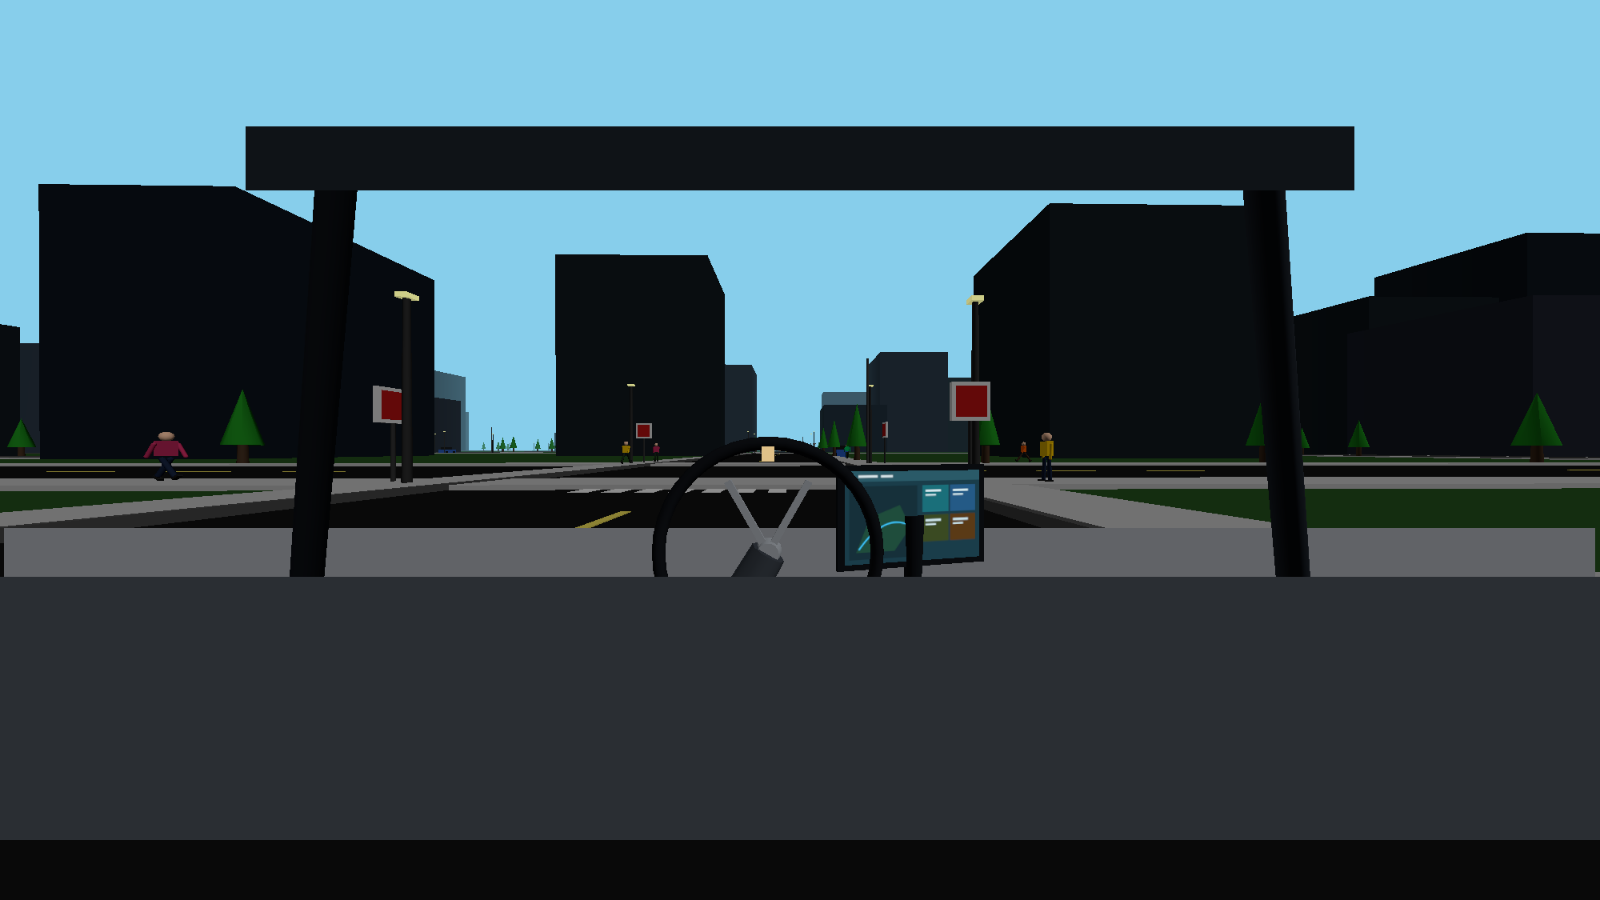
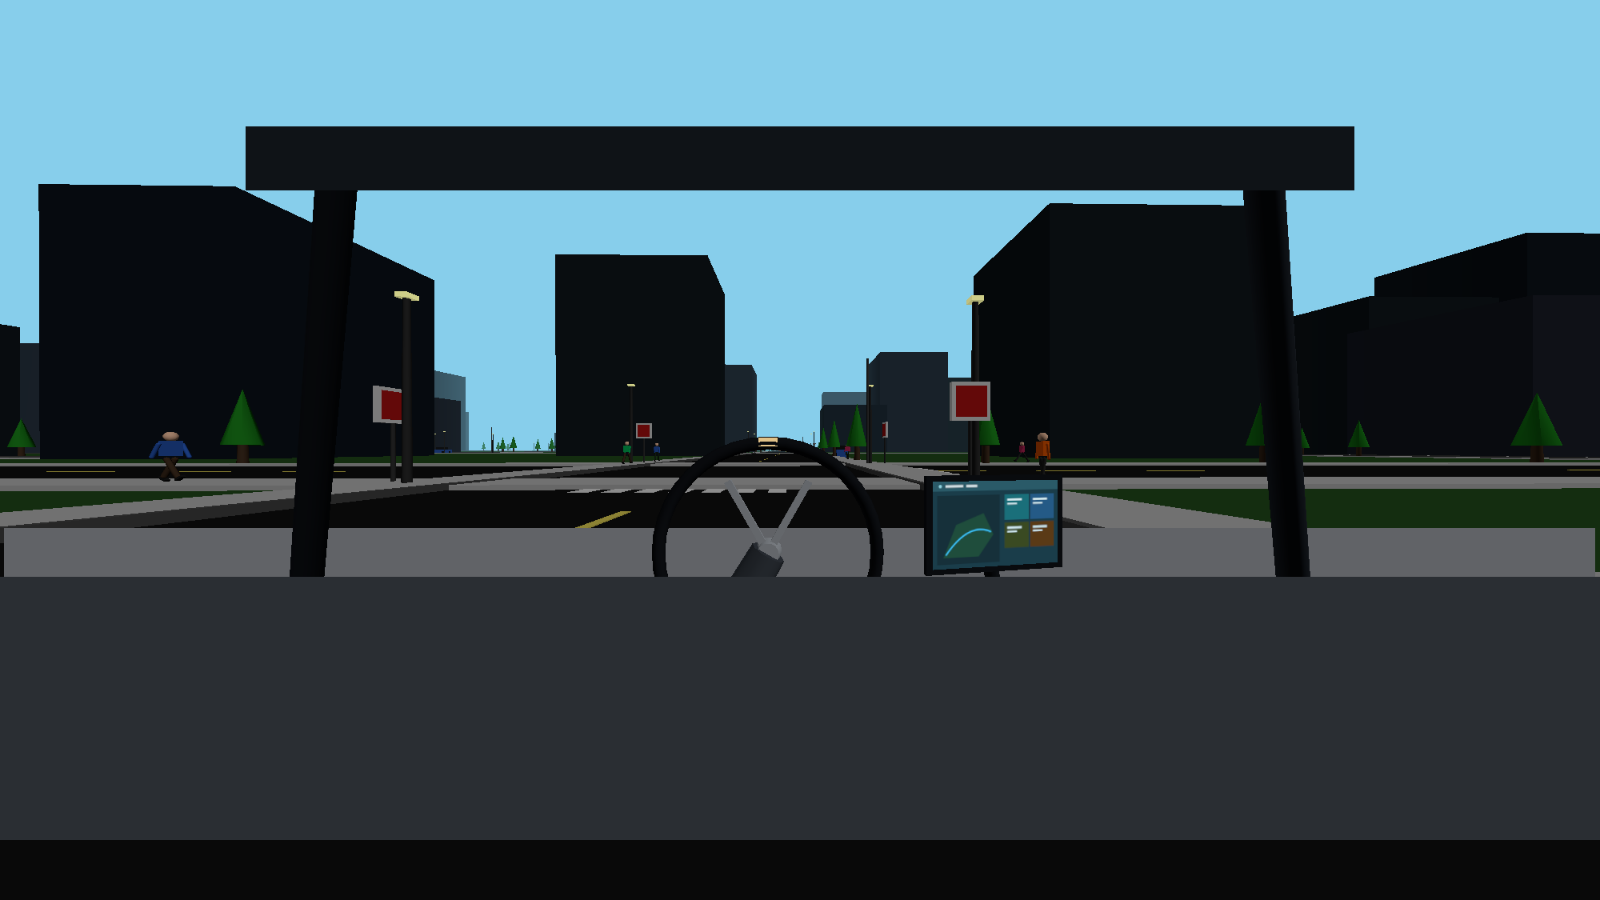
Fix silver hood mapping, hide the tablet stalk, and shoot 450° lock.
Glass is limited to greenhouse openings so the hood, doors and rear quarters stay silver. The 12 o'clock mark sits on the rim, the tablet mount stays under the screen, and cabin-a/d capture full hand-wheel lock.

Changed region(s): [[0.5, 0.4667, 0.6875, 0.6533], [0.4688, 0.4667, 0.5, 0.5289], [0.0938, 0.4667, 0.125, 0.5289]]

diff --git a/game/src/sim/egoMesh.ts b/game/src/sim/egoMesh.ts
@@ -32,6 +32,8 @@ export const LAYER_EXTERIOR = 2;
  * the top of the image). Glass, lights, chrome and tyres use other cells.
  */
 export const BODY_PAINT_UV_CELLS: ReadonlyArray<readonly [number, number]> = [
+  [2, 4],
+  [2, 5],
   [3, 4],
   [3, 5],
   [6, 2],
@@ -173,15 +175,18 @@ function isGlassTriangle(
   nbx: number, nby: number, nbz: number,
   ncx: number, ncy: number, ncz: number,
 ): boolean {
+  // Kenney-local: +Z forward, +X left, +Y up.
+  // Only the greenhouse openings — never hood, roof skin, doors, or rear quarters.
+  const x = (ax + bx + cx) / 3;
   const y = (ay + by + cy) / 3;
-  // Kenney-local: +Z forward, +X left, +Y up. Keep the painted roof.
-  if (y < 0.52) return false;
+  const z = (az + bz + cz) / 3;
+  if (y < 0.56 || y > 0.96) return false;
+  if (z > 0.52 || z < -0.58) return false;
   const nx = (nax + nbx + ncx) / 3;
-  const ny = (nay + nby + ncy) / 3;
   const nz = (naz + nbz + ncz) / 3;
-  if (nz > 0.38 && y < 0.98) return true;
-  if (nz < -0.38 && y < 0.98) return true;
-  if (Math.abs(nx) > 0.58 && y < 0.8 && ny < 0.35) return true;
+  if (Math.abs(nx) > 0.85 && Math.abs(x) > 0.48 && y < 0.82 && z > -0.55 && z < 0.48) return true;
+  if (nz > 0.4 && y > 0.68 && z > 0.2 && z < 0.5) return true;
+  if (nz < -0.4 && y > 0.72 && z < -0.2 && z > -0.58 && Math.abs(x) < 0.5) return true;
   return false;
 }
 
@@ -457,8 +462,10 @@ function buildHandWheel(): THREE.Group {
     );
   }
   addMerged(group, spokeParts, metal, false);
-  const notch = new THREE.Mesh(new THREE.BoxGeometry(0.014, 0.024, 0.02), mark);
-  notch.position.set(-0.014, R * 0.9, 0);
+  // Thin strip on the rim at 12 o'clock (torus lies in YZ). Rotates with the wheel.
+  const notch = new THREE.Mesh(new THREE.BoxGeometry(tube * 1.8, tube * 1.4, 0.032), mark);
+  notch.name = 'wheel-mark';
+  notch.position.set(0, R + tube * 0.15, 0);
   group.add(notch);
   return group;
 }
@@ -507,11 +514,20 @@ function buildCockpit(): { group: THREE.Group; steerWheel: THREE.Group } {
   face.rotation.y = -Math.PI / 2;
   face.position.x = -0.006;
   screen.add(bezel, face);
-  const sit = rayPoint(cam, 0.22, dashTop, 0.72);
-  const sitInDash = rayPoint(cam, 0.22, dashTop - 0.08, 0.72);
-  screen.position.set(sit.x, sit.y + 0.108, sit.z);
-  screen.rotation.y = 0.22;
-  addStrut(group, sitInDash, screen.position.clone(), 0.014, 0.02, bezelMat, 'screen-mount');
+  const sit = rayPoint(cam, 0.38, dashTop, 0.76);
+  const under = rayPoint(cam, 0.38, dashTop - 0.05, 0.78);
+  screen.position.set(sit.x, sit.y + 0.1, sit.z);
+  screen.rotation.y = 0.18;
+  // Short stub under the tablet, behind the face, so it never crosses the UI.
+  addStrut(
+    group,
+    under,
+    new THREE.Vector3(sit.x + 0.03, sit.y + 0.04, sit.z),
+    0.012,
+    0.016,
+    bezelMat,
+    'screen-mount',
+  );
   group.add(screen);
 
   const steerWheel = buildHandWheel();

diff --git a/game/src/main.ts b/game/src/main.ts
@@ -8,7 +8,7 @@ import { Simulation } from './sim/simulation';
 import { vec3Length, egoToWorld, clamp } from './sim/math';
 import { formatGear } from './sim/vehicle';
 import { nearestGridLine, snapToRoad, roadRoute } from './sim/world';
-import { COCKPIT, handWheelRotation } from './sim/cabinView';
+import { COCKPIT, HAND_LOCK_DEG, handWheelRotation } from './sim/cabinView';
 import { applyCameraLayers, loadEgoVisual } from './sim/egoMesh';
 import {
   AXLE_HEIGHT,
@@ -2557,7 +2557,7 @@ function hideChrome() {
   perceptionViz?.setEnabled(false);
 }
 
-/** Screenshot / demo rigs: ?shot=cabin|cabin-a|cabin-d|cabin-wide|exterior|side|wheel */
+/** Screenshot / demo rigs: ?shot=cabin|cabin-a|cabin-d|cabin-wide|exterior|exterior-hood|side|wheel */
 function applyShot(kind: string) {
   beginGame('manual');
   hideChrome();
@@ -2572,11 +2572,11 @@ function applyShot(kind: string) {
     setCameraMode('hood');
     if (kind === 'cabin-a') {
       inputState.left = true;
-      shotHandDeg = 200;
+      shotHandDeg = HAND_LOCK_DEG;
     }
     if (kind === 'cabin-d') {
       inputState.right = true;
-      shotHandDeg = -200;
+      shotHandDeg = -HAND_LOCK_DEG;
     }
     if (kind === 'cabin-wide') {
       shotFov = COCKPIT.wideFovDeg;
@@ -2584,6 +2584,9 @@ function applyShot(kind: string) {
   } else if (kind === 'exterior') {
     setCameraMode('orbit');
     debugHeroCam = { x: 4.6, y: 1.4, z: -3.4, lookX: 0.15, lookY: 0.58, lookZ: 0.0 };
+  } else if (kind === 'exterior-hood') {
+    setCameraMode('orbit');
+    debugHeroCam = { x: 2.4, y: 5.4, z: 0.05, lookX: 0.9, lookY: 0.62, lookZ: 0.0 };
   } else if (kind === 'side') {
     debugSideCam = { height: 0.55, side: 6.2, lookY: 0.62 };
   } else if (kind === 'wheel') {

diff --git a/game/src/sim/egoMesh.test.ts b/game/src/sim/egoMesh.test.ts
@@ -93,6 +93,7 @@ describe('Kenney sedan-sports mesh', () => {
 
   it('loads the Kenney sedan-sports GLB and silvers only paint UV cells', () => {
     expect(SEDAN_MODEL_URL).toBe('/models/sedan-sports.glb');
+    expect(BODY_PAINT_UV_CELLS).toContainEqual([2, 5]);
     expect(BODY_PAINT_UV_CELLS).toContainEqual([3, 4]);
     expect(BODY_PAINT_UV_CELLS).toContainEqual([3, 5]);
     expect(BODY_PAINT_UV_CELLS.every(([c, r]) => c >= 0 && c < 8 && r >= 0 && r < 8)).toBe(true);
@@ -130,7 +131,11 @@ describe('Kenney sedan-sports mesh', () => {
     expect(boxesTouch(dash, right)).toBe(true);
     expect(boxesTouch(dash, column, 0.12)).toBe(true);
     expect(boxesTouch(dash, mount, 0.12)).toBe(true);
-    expect(boxesTouch(mount, screen, 0.12)).toBe(true);
+    expect(boxesTouch(mount, screen, 0.16)).toBe(true);
+    const mountBox = new THREE.Box3().setFromObject(mount);
+    const faceBox = new THREE.Box3().setFromObject(screen);
+    // Mount stays under/behind the tablet — it must not cover the screen face.
+    expect(mountBox.max.y).toBeLessThan(faceBox.max.y - 0.02);
     expect(boxesTouch(left, header)).toBe(true);
     expect(boxesTouch(right, header)).toBe(true);
     expect(boxesTouch(column, visual.steerWheel, 0.1)).toBe(true);
@@ -141,5 +146,8 @@ describe('Kenney sedan-sports mesh', () => {
     expect(COCKPIT.wideFovDeg).toBeGreaterThan(COCKPIT.fovDeg);
     expect(COCKPIT.dashTopNdc).toBeGreaterThan(-0.55);
     expect(COCKPIT.dashTopNdc).toBeLessThan(-0.35);
+    const mark = named(visual.group, 'wheel-mark');
+    expect(mark.position.y).toBeGreaterThan(COCKPIT.wheelRadius * 0.9);
+    expect(Math.abs(mark.position.x)).toBeLessThan(0.02);
   });
 });

diff --git a/wiki/systems/ego-mesh.md b/wiki/systems/ego-mesh.md
@@ -8,7 +8,7 @@ sources: [17, 22]
 
 The player car is Kenney’s Car Kit **sedan-sports** (`sedan-sports.glb`, CC0, [kenney.nl/assets/car-kit](https://kenney.nl/assets/car-kit)), served from `game/public/models/` and loaded with Three.js `GLTFLoader`. Attribution lives in `game/public/models/ATTRIBUTION.md` and `README.md`.
 
-Fit: ~4.7 m long × 1.85 m wide × 1.45 m tall. Only body-paint colormap cells are tinted silver; windows stay dark glass and trim, lights and tyres keep their original colours. Kenney +Z-forward is rotated to sim +X-forward. Wheels (`wheel-front-left` etc.) are detached onto planted pivots at `AXLE_HEIGHT` so cosmetic roll/pitch of `bodyPivot` does not lift them off the road. Front pivots yaw with steer; meshes spin on the axle.
+Fit: ~4.7 m long × 1.85 m wide × 1.45 m tall. Body-paint colormap cells (including the dark-grey hood/door cells) are tinted silver. Only greenhouse window faces are split out as dark glass. Lights, trim and tyres keep their original colours. Kenney +Z-forward is rotated to sim +X-forward. Wheels (`wheel-front-left` etc.) are detached onto planted pivots at `AXLE_HEIGHT` so cosmetic roll/pitch of `bodyPivot` does not lift them off the road. Front pivots yaw with steer; meshes spin on the axle.
 
 First-person does not render the exterior shell (camera layer `LAYER_EXTERIOR`). A separate cockpit group (`LAYER_COCKPIT`) draws a full-width dash covering the bottom ~28% of the frame, a silver hood/cowl sliver, A-pillars from the dash corners to a thin roof header, a landscape ~15" centre tablet, a steering column, and a 36 cm wheel whose lower rim sits behind the dash. No roof tint plane.
 

diff --git a/wiki/sources/pr-22.md b/wiki/sources/pr-22.md
@@ -8,7 +8,7 @@ sources: [22]
 
 ## What changed
 
-Replaced the procedural cigar-pod ego mesh with Kenney Car Kit `sedan-sports.glb` (CC0) loaded via `GLTFLoader`. Fitted to ~4.7 × 1.85 × 1.45 m. Only body-paint UV cells are tinted silver; glass, lights, trim and tyres keep the original colormap. Named wheel nodes sit in the arches, touch the road, steer and spin. First person is a left-of-frame seat at ~1.2 m: full-width dash (bottom ~28%), hood/cowl sliver, A-pillars into a roof header, landscape ~15" centre tablet, steering column, 36 cm wheel (~450° A/D). Extra still: `?shot=cabin-wide`.
+Replaced the procedural cigar-pod ego mesh with Kenney Car Kit `sedan-sports.glb` (CC0) loaded via `GLTFLoader`. Fitted to ~4.7 × 1.85 × 1.45 m. Body-paint UV cells are tinted silver; only greenhouse window faces are dark glass. Lights, trim and tyres keep the original colormap. Named wheel nodes sit in the arches, touch the road, steer and spin. First person is a left-of-frame seat at ~1.2 m: full-width dash (bottom ~28%), hood/cowl sliver, A-pillars into a roof header, landscape ~15" centre tablet, steering column, 36 cm wheel with a rim 12 o'clock mark (~450° A/D). Extra stills: `?shot=cabin-wide`, `?shot=exterior-hood`.
 
 ## Why
 

diff --git a/wiki/systems/testing.md b/wiki/systems/testing.md
@@ -10,7 +10,7 @@ Vitest lives next to the code (`game/src/**/*.test.ts`). `cd game && npm test` r
 
 Planner corner tests drive `planTrajectory` + `updateVehicle` and assert the car stays on a 14 m asphalt cross. City-life tests keep trees off the road and pedestrians on sidewalks.
 
-Screenshots used in PRs and `README.md` sit in `docs/screenshots/`. They are captured from the running Vite app (headless Chrome or a live session), not from unit tests. Cabin/sedan shots for [[pr-22]] are `cabin3_cockpit_*.png` (including `cabin3_cockpit_wide.png`), `cabin3_exterior_*.png`, and `cabin3_wheel_closeup.png`.
+Screenshots used in PRs and `README.md` sit in `docs/screenshots/`. They are captured from the running Vite app (headless Chrome or a live session), not from unit tests. Cabin/sedan shots for [[pr-22]] are `cabin3_cockpit_*.png` (including `cabin3_cockpit_wide.png`), `cabin3_exterior_*.png` (including `cabin3_exterior_hood.png`), and `cabin3_wheel_closeup.png`.
 
 ## Key files
 

diff --git a/docs/screenshots/README.md b/docs/screenshots/README.md
@@ -64,16 +64,19 @@ Several AI traffic cars stopped at an all-way stop, not colliding.
 First person, left-hand seat, full-width dash, hood sliver, A-pillars, 15" centre tablet, 36 cm wheel.
 
 ### cabin3_cockpit_steer_left.png
-A held: hand wheel turned counter-clockwise (~450° lock).
+A held: hand wheel at full lock, counter-clockwise (~450°).
 
 ### cabin3_cockpit_steer_right.png
-D held: hand wheel turned clockwise.
+D held: hand wheel at full lock, clockwise (~450°).
 
 ### cabin3_cockpit_wide.png
 Same cockpit at a wider FOV (`?shot=cabin-wide`).
 
 ### cabin3_exterior_three_quarter.png
 Front 3/4 of the CC0 Kenney sedan-sports (silver paint, dark glass).
+
+### cabin3_exterior_hood.png
+Top-down / front view: the hood, roof and doors are silver.
 
 ### cabin3_exterior_low_side.png
 Low side view: tires inside the arches and on the road.

diff --git a/wiki/systems/camera.md b/wiki/systems/camera.md
@@ -12,7 +12,7 @@ Hood is a left-of-frame seat at ~1.2 m (`COCKPIT` in [[ego-mesh]]). A 36 cm whee
 
 The mesh yaw must match the nose ([[pr-11]], `meshYawForHeading`). An old +4 m orbit offset made wheel-height shots impossible; that is gone ([[pr-4]]).
 
-Demo shots: `?shot=cabin|cabin-a|cabin-d|cabin-wide|exterior|side|wheel`.
+Demo shots: `?shot=cabin|cabin-a|cabin-d|cabin-wide|exterior|exterior-hood|side|wheel`.
 
 ## Key files
 

diff --git a/wiki/log.md b/wiki/log.md
@@ -51,3 +51,5 @@ Append-only. `grep "^## \[" wiki/log.md | tail -5`
 ## [2026-10-12] ingest | PR #22 Kenney sedan GLB and Tesla-style cockpit
 
 ## [2026-10-12] ingest | PR #22 sedan-sports + connected cockpit
+
+## [2026-10-12] ingest | PR #22 silver hood/doors, rim mark, 450° lock shots
